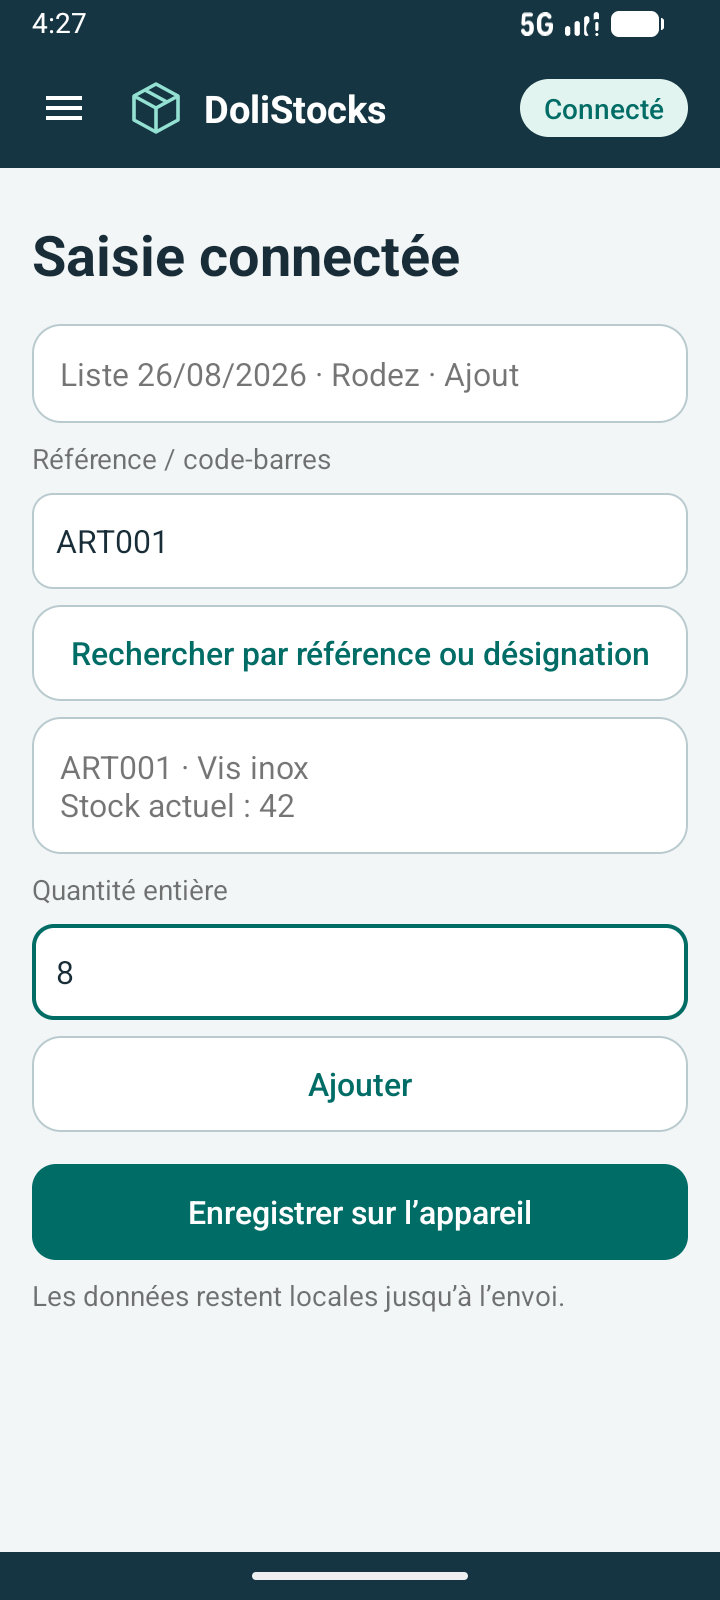
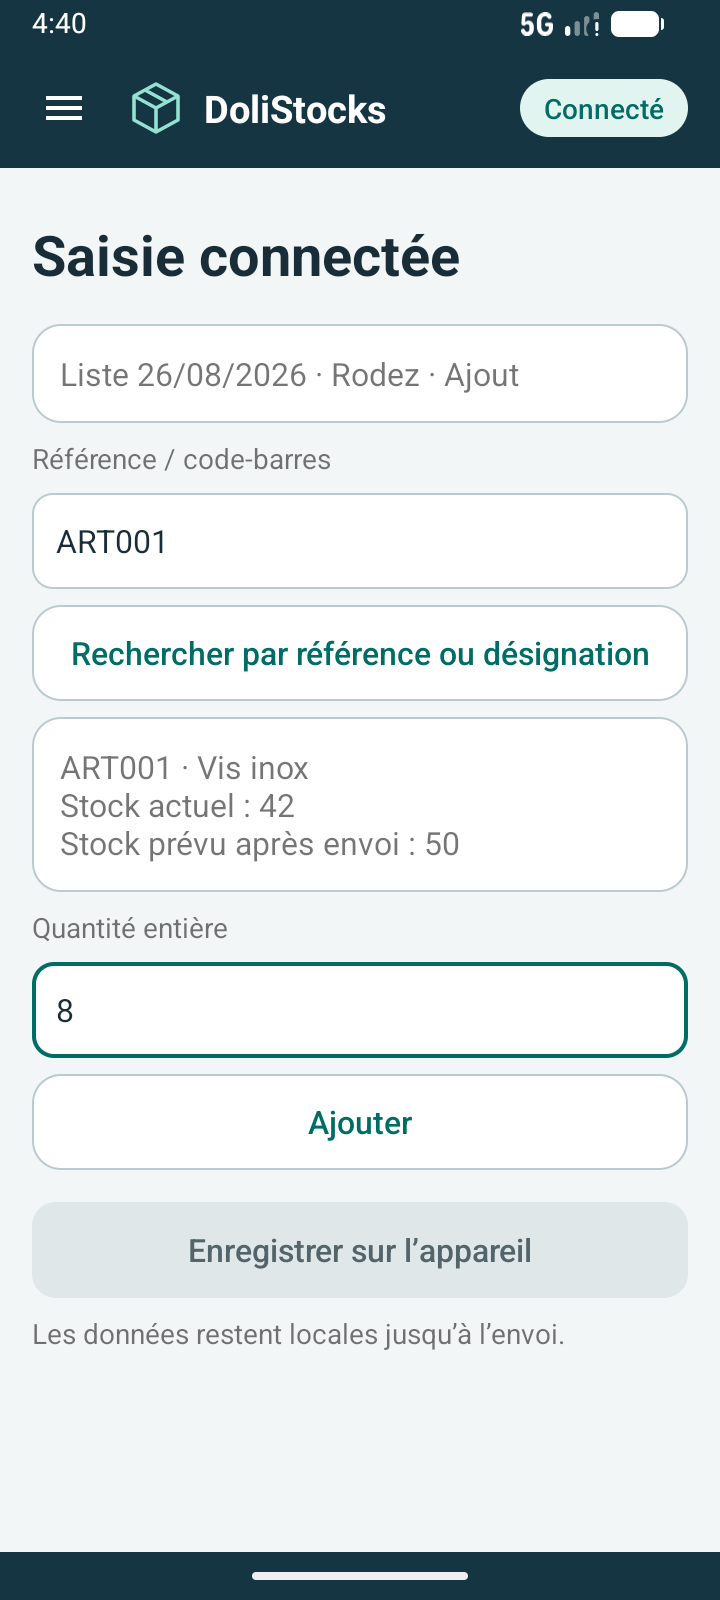
feat(saisie): prévisualiser le stock pendant la frappe et animer la navigation

diff --git a/app/src/main/java/fr/dolistocks/app/ui/workflow/ArticlesFragment.java b/app/src/main/java/fr/dolistocks/app/ui/workflow/ArticlesFragment.java
@@ -3,6 +3,8 @@ package fr.dolistocks.app.ui.workflow;
 import android.app.AlertDialog;
 import android.os.Bundle;
 import android.text.InputType;
+import android.text.Editable;
+import android.text.TextWatcher;
 import android.view.View;
 import android.widget.Button;
 import android.widget.EditText;
@@ -34,7 +36,14 @@ public final class ArticlesFragment extends WorkflowFragment {
         heading.setText(session.draft.heading() + " · " + getString(session.draft.replace
                 ? R.string.mode_replace : R.string.mode_add));
         EditText reference = view.findViewById(R.id.reference);
-        reference.setOnFocusChangeListener((field, focused) -> { if (!focused) showStock(); });
+        EditText amount = view.findViewById(R.id.quantity);
+        TextWatcher update = new TextWatcher() {
+            public void beforeTextChanged(CharSequence text, int start, int count, int after) {}
+            public void onTextChanged(CharSequence text, int start, int before, int count) { updatePreview(); }
+            public void afterTextChanged(Editable text) {}
+        };
+        reference.addTextChangedListener(update);
+        amount.addTextChangedListener(update);
         View panel = view.findViewById(R.id.search_panel);
         if (panel != null) {
             panel.findViewById(R.id.return_entry).setVisibility(View.GONE);
@@ -65,7 +74,6 @@ public final class ArticlesFragment extends WorkflowFragment {
 
     private void pick(String reference) {
         ((EditText) requireView().findViewById(R.id.reference)).setText(reference);
-        showStock();
         requireView().findViewById(R.id.quantity).requestFocus();
     }
 
@@ -74,24 +82,52 @@ public final class ArticlesFragment extends WorkflowFragment {
         return input.getText().toString().trim().toUpperCase(Locale.ROOT);
     }
 
-    private void showStock() {
-        TextView details = requireView().findViewById(R.id.article_details);
-        String reference = reference();
-        details.setVisibility(online() && !reference.isEmpty() ? View.VISIBLE : View.GONE);
-        details.setText(DemoStock.CATALOG.containsKey(reference) ? getString(R.string.stock_format,
-                reference, DemoStock.CATALOG.get(reference), session.stockAt(session.draft.warehouse).get(reference))
-                : getString(R.string.unknown_ref));
+    private void updatePreview() {
+        View root = requireView();
+        TextView details = root.findViewById(R.id.article_details);
+        String key = reference();
+        boolean known = DemoStock.CATALOG.containsKey(key);
+        int value = positiveQuantity(root.findViewById(R.id.quantity));
+        boolean valid = value > 0 && !key.isEmpty() && (!online() || known);
+        String preview = "";
+        if (online() && known) {
+            int before = session.stockAt(session.draft.warehouse).get(key);
+            preview = getString(R.string.stock_format, key, DemoStock.CATALOG.get(key), before);
+            if (value > 0) {
+                long after = session.draft.replace ? value : (long) before + value;
+                valid = after <= Integer.MAX_VALUE;
+                preview += "\n" + (valid ? getString(R.string.projected_stock, after)
+                        : getString(R.string.stock_limit));
+            }
+        } else if (online() && !key.isEmpty() && !isReferencePrefix(key)) {
+            preview = getString(R.string.unknown_ref);
+        }
+        details.setVisibility(preview.isEmpty() ? View.GONE : View.VISIBLE);
+        if (!preview.contentEquals(details.getText())) details.setText(preview);
+        root.findViewById(R.id.add_line).setEnabled(valid);
     }
 
-    private int quantity(EditText input) {
+    private boolean isReferencePrefix(String prefix) {
+        for (String key : DemoStock.CATALOG.keySet()) {
+            if (key.startsWith(prefix)) return true;
+        }
+        return false;
+    }
+
+    private int positiveQuantity(EditText input) {
         try {
             int value = Integer.parseInt(input.getText().toString());
             if (value > 0) return value;
         } catch (NumberFormatException ignored) {
             // Une saisie vide ou trop grande reste modifiable.
         }
-        input.setError(getString(R.string.invalid_qty));
         return 0;
+    }
+
+    private int quantity(EditText input) {
+        int value = positiveQuantity(input);
+        if (value == 0) input.setError(getString(R.string.invalid_qty));
+        return value;
     }
 
     private void addLine() {
@@ -108,12 +144,12 @@ public final class ArticlesFragment extends WorkflowFragment {
         input.setText("");
         amount.setText("");
         input.requestFocus();
-        showStock();
         renderLines();
     }
 
     private void renderLines() {
         LinearLayout rows = requireView().findViewById(R.id.lines);
+        requireView().findViewById(R.id.save_list).setEnabled(!session.draft.lines.isEmpty());
         rows.removeAllViews();
         for (Map.Entry<String, Integer> line : session.draft.lines.entrySet()) {
             Button edit = new Button(requireContext());
@@ -154,6 +190,6 @@ public final class ArticlesFragment extends WorkflowFragment {
         View panel = root.findViewById(R.id.search_panel);
         if (panel != null) panel.setVisibility(connected ? View.VISIBLE : View.GONE);
         root.findViewById(R.id.search_articles).setVisibility(connected && panel == null ? View.VISIBLE : View.GONE);
-        showStock();
+        updatePreview();
     }
 }

diff --git a/app/src/main/java/fr/dolistocks/app/ui/home/HomeFragment.java b/app/src/main/java/fr/dolistocks/app/ui/home/HomeFragment.java
@@ -27,12 +27,14 @@ public final class HomeFragment extends WorkflowFragment {
         view.findViewById(R.id.refresh_warehouses).setOnClickListener(button ->
                 getParentFragmentManager().beginTransaction()
                         .setReorderingAllowed(true)
+                        .setTransition(androidx.fragment.app.FragmentTransaction.TRANSIT_FRAGMENT_FADE)
                         .replace(R.id.page, SyncFragment.class, null)
                         .addToBackStack(null)
                         .commit());
         view.findViewById(R.id.new_list).setOnClickListener(button ->
                 getParentFragmentManager().beginTransaction()
                         .setReorderingAllowed(true)
+                        .setTransition(androidx.fragment.app.FragmentTransaction.TRANSIT_FRAGMENT_FADE)
                         .replace(R.id.page, EntryFragment.class, null)
                         .addToBackStack(null)
                         .commit());

diff --git a/app/src/main/java/fr/dolistocks/app/ui/sync/SyncFragment.java b/app/src/main/java/fr/dolistocks/app/ui/sync/SyncFragment.java
@@ -26,6 +26,7 @@ public final class SyncFragment extends Fragment {
             requireContext().getSharedPreferences("tablet", 0).edit().putBoolean("initialized", true).apply();
             getParentFragmentManager().beginTransaction()
                         .setReorderingAllowed(true)
+                        .setTransition(androidx.fragment.app.FragmentTransaction.TRANSIT_FRAGMENT_FADE)
                         .replace(R.id.page, ReadyFragment.class, null)
                         .addToBackStack(null)
                         .commit();

diff --git a/app/src/main/java/fr/dolistocks/app/MainActivity.java b/app/src/main/java/fr/dolistocks/app/MainActivity.java
@@ -99,6 +99,7 @@ public class MainActivity extends FragmentActivity {
         item.setEnabled(!destination.isInstance(getSupportFragmentManager().findFragmentById(R.id.page)));
         item.setOnMenuItemClickListener(selected -> {
             getSupportFragmentManager().beginTransaction().setReorderingAllowed(true)
+                    .setTransition(androidx.fragment.app.FragmentTransaction.TRANSIT_FRAGMENT_FADE)
                     .replace(R.id.page, destination, null).addToBackStack(null).commit();
             return true;
         });

diff --git a/app/src/main/java/fr/dolistocks/app/ui/sync/ReadyFragment.java b/app/src/main/java/fr/dolistocks/app/ui/sync/ReadyFragment.java
@@ -24,6 +24,7 @@ public final class ReadyFragment extends Fragment {
         view.findViewById(R.id.open_home).setOnClickListener(button ->
                 getParentFragmentManager().beginTransaction()
                         .setReorderingAllowed(true)
+                        .setTransition(androidx.fragment.app.FragmentTransaction.TRANSIT_FRAGMENT_FADE)
                         .replace(R.id.page, HomeFragment.class, null)
                         .addToBackStack(null)
                         .commit());

diff --git a/app/src/main/java/fr/dolistocks/app/ui/login/LoginFragment.java b/app/src/main/java/fr/dolistocks/app/ui/login/LoginFragment.java
@@ -33,6 +33,7 @@ public final class LoginFragment extends Fragment {
             }
             getParentFragmentManager().beginTransaction()
                         .setReorderingAllowed(true)
+                        .setTransition(androidx.fragment.app.FragmentTransaction.TRANSIT_FRAGMENT_FADE)
                         .replace(R.id.page, online ? SyncFragment.class : HomeFragment.class, null)
                         .addToBackStack(null)
                         .commit();

diff --git a/app/src/main/java/fr/dolistocks/app/ui/workflow/WorkflowFragment.java b/app/src/main/java/fr/dolistocks/app/ui/workflow/WorkflowFragment.java
@@ -28,6 +28,7 @@ public abstract class WorkflowFragment extends Fragment {
 
     protected void open(Class<? extends Fragment> screen) {
         getParentFragmentManager().beginTransaction().setReorderingAllowed(true)
+                .setTransition(androidx.fragment.app.FragmentTransaction.TRANSIT_FRAGMENT_FADE)
                 .replace(R.id.page, screen, null).addToBackStack(null).commit();
     }
 

diff --git a/README.md b/README.md
@@ -23,6 +23,8 @@
 
 ## Interface responsive
 
+- Pendant la saisie connectée, la référence et la quantité actualisent un aperçu du stock prévu selon le mode Ajout ou Remplacement. Hors ligne, la référence reste saisissable sans estimation de stock distant.
+
 - Les écrans partagent les mêmes repères visuels : action principale pleine, actions secondaires à contour, champs avec bordure de focus et état réseau toujours écrit. La file d’envoi souligne les listes cochées ; les confirmations et résultats regroupent les informations dans des cartes.
 
 - Après la synchronisation initiale, le bouton de menu dans la barre de titre donne accès à Accueil, Listes et Paramètres sur téléphone et tablette. Le bouton Retour ferme le menu ouvert.
